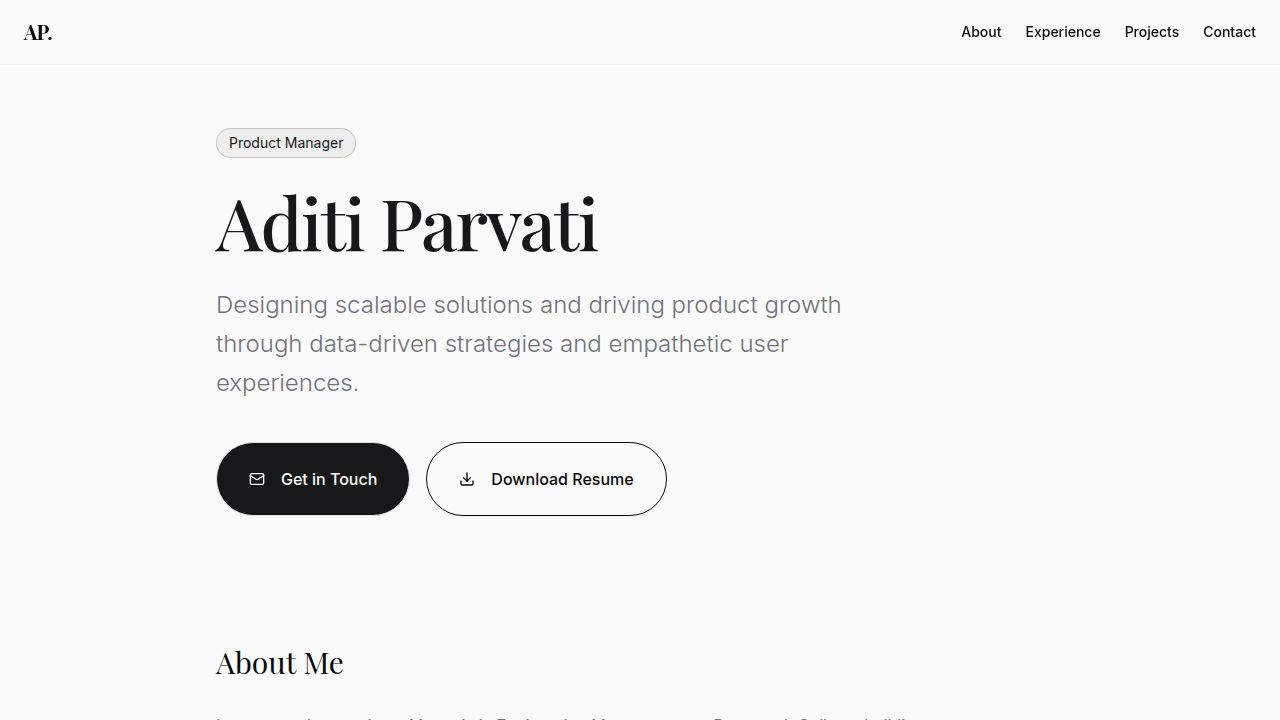
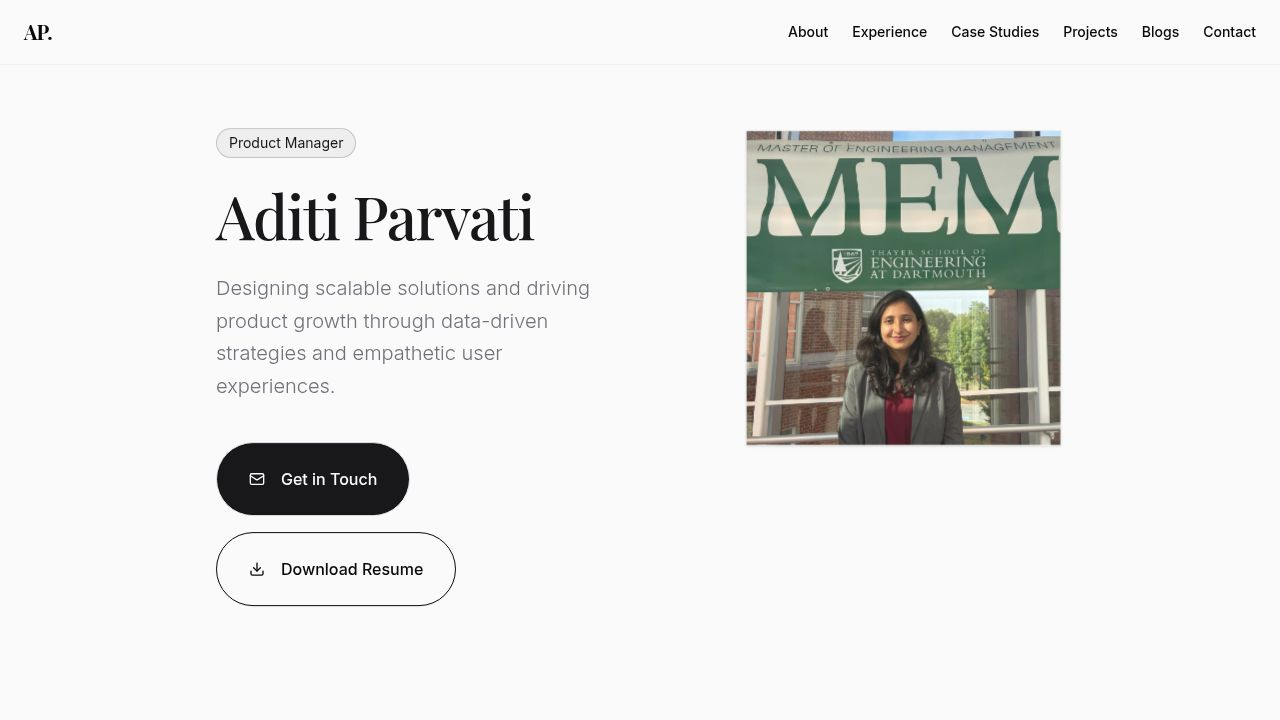
Add a case studies section to showcase professional achievements
Adds a new "Case Studies" section to the homepage, featuring a detailed "The Renewal Machine" case study including situation, approach, and quantifiable impact.

Replit-Commit-Author: Agent
Replit-Commit-Session-Id: 3e1bb070-3968-46ee-9a1d-4e048af6c68d
Replit-Commit-Checkpoint-Type: full_checkpoint
Replit-Commit-Event-Id: 231eb192-cc02-4190-aa4b-6928d73b15c6
Replit-Commit-Screenshot-Url: https://storage.googleapis.com/screenshot-production-us-central1/74c982d5-3363-4dce-a649-1b16ca5b3a5c/3e1bb070-3968-46ee-9a1d-4e048af6c68d/bWZkvRN
Replit-Helium-Checkpoint-Created: true

diff --git a/client/src/pages/home.tsx b/client/src/pages/home.tsx
@@ -3,7 +3,7 @@ import { Roadmap } from "@/components/roadmap";
 import { Button } from "@/components/ui/button";
 import { Badge } from "@/components/ui/badge";
 import { ScrollArea } from "@/components/ui/scroll-area";
-import { Mail, Linkedin, FileText, Download, ArrowRight, BookOpen, ExternalLink } from "lucide-react";
+import { Mail, Linkedin, FileText, Download, ArrowRight, BookOpen, ExternalLink, TrendingUp, Users } from "lucide-react";
 import heroBg from "@assets/generated_images/minimalist_abstract_architectural_shapes_in_soft_white_and_light_gray.png";
 import profilePhoto from "@assets/WhatsApp_Image_2025-12-26_at_7.27.54_PM_1766757495634.jpeg";
 
@@ -108,6 +108,23 @@ export default function Home() {
      }
   ];
 
+  const caseStudies = [
+    {
+      title: "The Renewal Machine",
+      subtitle: "How I generated $1.5M in upsell revenue and gave teams their time back",
+      company: "Apsona Inc.",
+      situation: "When I joined Apsona's Renewals team, I noticed something: we were losing revenue not because customers didn't want to renew, but because our procurement process was clunky. Payment delays meant late renewals. Manual outreach meant missed opportunities. A 3-person team was drowning in administrative work instead of strategic customer conversations.",
+      approach: [
+        "Shadowed the renewals team for about a month, understanding the key pain points—broken workflows and technical bugs.",
+        "Analyzed how our backend payment system and automation worked to identify leverage points.",
+        "Built Salesforce workflows and revisited our quote-to-cash workflow first on Sandbox, then Production.",
+        "Rolled out the automation in Developer Console, followed by full Production rollout."
+      ],
+      impact: "$1.5M in upsell revenue | 67% reduction in delayed payments | 3-person team freed up for strategic work",
+      outcome: "The Renewal Machine transformed our revenue operations from reactive to proactive, empowering the team to focus on customer relationships instead of admin work."
+    }
+  ];
+
   return (
     <div className="min-h-screen bg-background text-foreground selection:bg-primary/10">
       
@@ -118,6 +135,7 @@ export default function Home() {
           <div className="flex gap-6 text-sm font-medium">
             <a href="#about" className="hover:text-primary transition-colors">About</a>
             <a href="#experience" className="hover:text-primary transition-colors">Experience</a>
+            <a href="#case-studies" className="hover:text-primary transition-colors">Case Studies</a>
             <a href="#projects" className="hover:text-primary transition-colors">Projects</a>
             <a href="#blogs" className="hover:text-primary transition-colors">Blogs</a>
             <a href="#contact" className="hover:text-primary transition-colors">Contact</a>
@@ -231,6 +249,71 @@ export default function Home() {
         <section className="mb-32">
           <h2 className="font-serif text-3xl mb-12">Education</h2>
           <Roadmap items={education} />
+        </section>
+
+        {/* Case Studies Section */}
+        <section id="case-studies" className="mb-32">
+          <h2 className="font-serif text-3xl mb-12">Case Studies</h2>
+          {caseStudies.map((caseStudy, i) => (
+            <motion.div
+              key={i}
+              initial={{ opacity: 0, y: 20 }}
+              whileInView={{ opacity: 1, y: 0 }}
+              transition={{ duration: 0.5 }}
+              viewport={{ once: true }}
+              className="space-y-8"
+            >
+              <div className="space-y-3">
+                <h3 className="font-serif text-3xl font-semibold text-foreground">{caseStudy.title}</h3>
+                <p className="text-lg text-muted-foreground font-light">{caseStudy.subtitle}</p>
+                <Badge variant="secondary" className="text-sm py-1.5 px-3 font-normal">{caseStudy.company}</Badge>
+              </div>
+
+              <div className="space-y-6">
+                <div>
+                  <h4 className="font-semibold text-foreground mb-3 flex items-center gap-2">
+                    <span className="inline-block w-1 h-1 rounded-full bg-primary" />
+                    The Situation
+                  </h4>
+                  <p className="text-muted-foreground leading-relaxed">
+                    {caseStudy.situation}
+                  </p>
+                </div>
+
+                <div>
+                  <h4 className="font-semibold text-foreground mb-3 flex items-center gap-2">
+                    <span className="inline-block w-1 h-1 rounded-full bg-primary" />
+                    My Approach
+                  </h4>
+                  <ul className="space-y-2">
+                    {caseStudy.approach.map((item, idx) => (
+                      <li key={idx} className="flex gap-3 text-muted-foreground leading-relaxed">
+                        <span className="block mt-1.5 h-1 w-1 rounded-full bg-muted-foreground shrink-0" />
+                        <span>{item}</span>
+                      </li>
+                    ))}
+                  </ul>
+                </div>
+
+                <div className="bg-secondary/30 border border-border/50 rounded-lg p-6">
+                  <div className="flex flex-col sm:flex-row items-start sm:items-center gap-4">
+                    <TrendingUp className="h-6 w-6 text-primary shrink-0" />
+                    <div>
+                      <p className="text-sm uppercase tracking-wider text-muted-foreground font-medium mb-1">Impact</p>
+                      <p className="text-foreground font-semibold">{caseStudy.impact}</p>
+                    </div>
+                  </div>
+                </div>
+
+                <div className="bg-card border border-border/50 rounded-lg p-6">
+                  <p className="text-foreground leading-relaxed">
+                    <span className="font-semibold">Outcome: </span>
+                    <span className="text-muted-foreground">{caseStudy.outcome}</span>
+                  </p>
+                </div>
+              </div>
+            </motion.div>
+          ))}
         </section>
 
         {/* Projects Section */}
